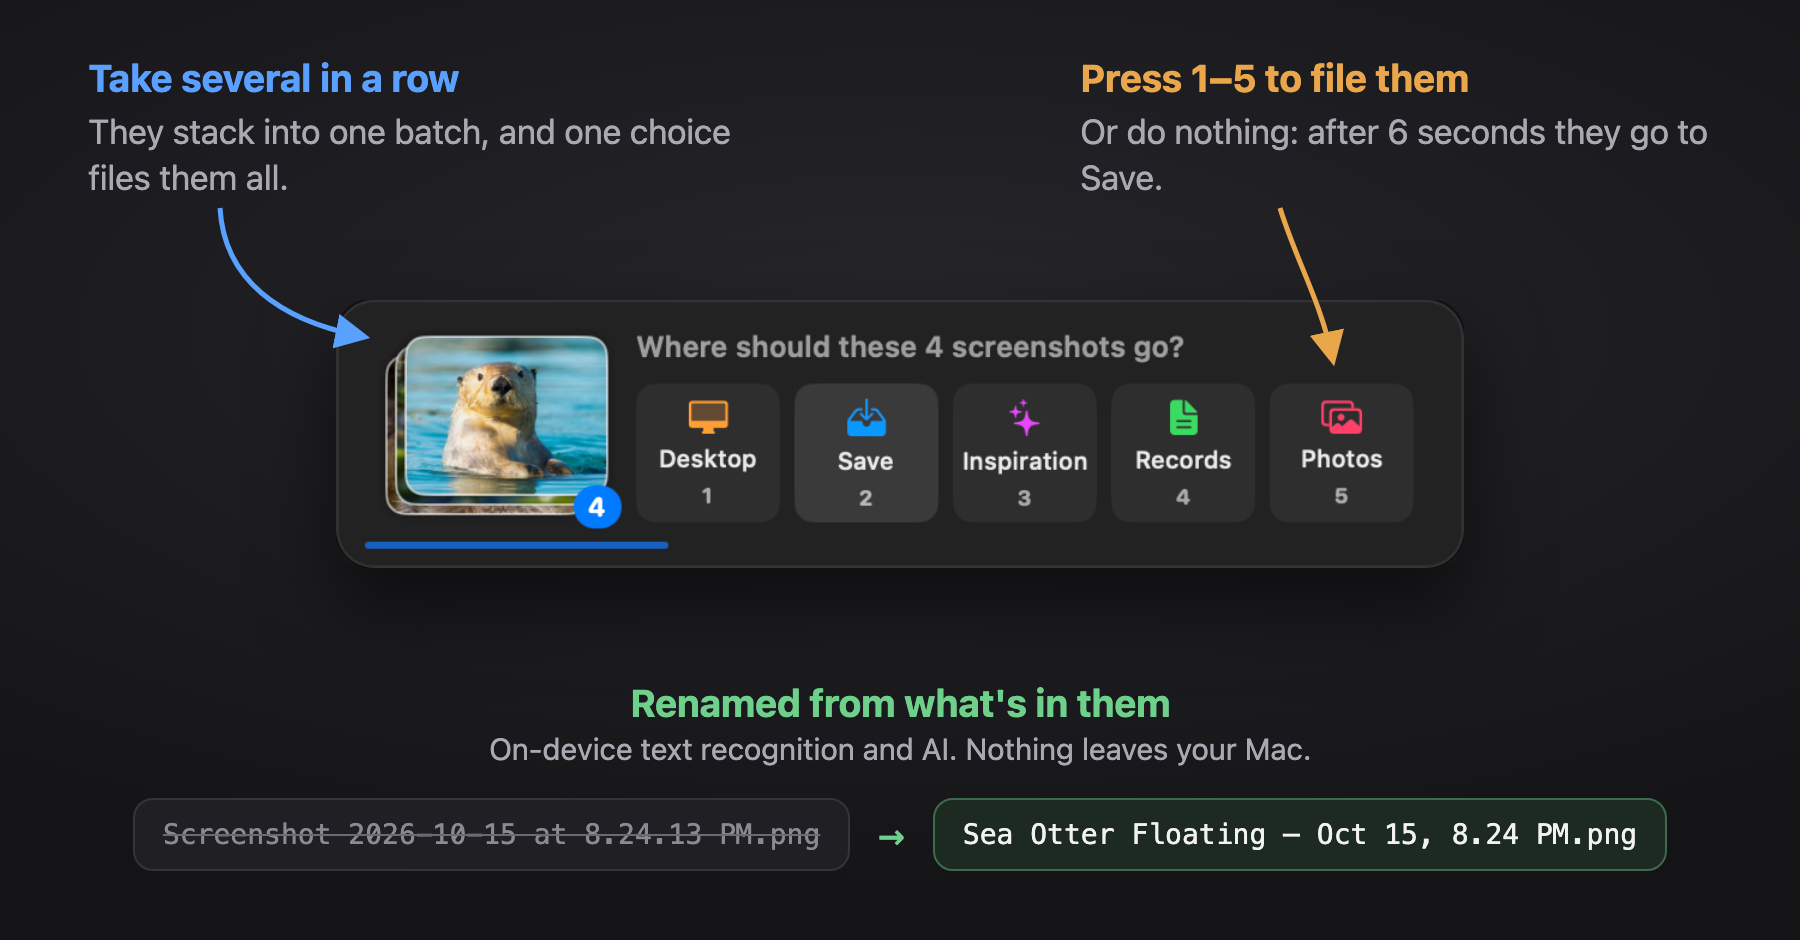
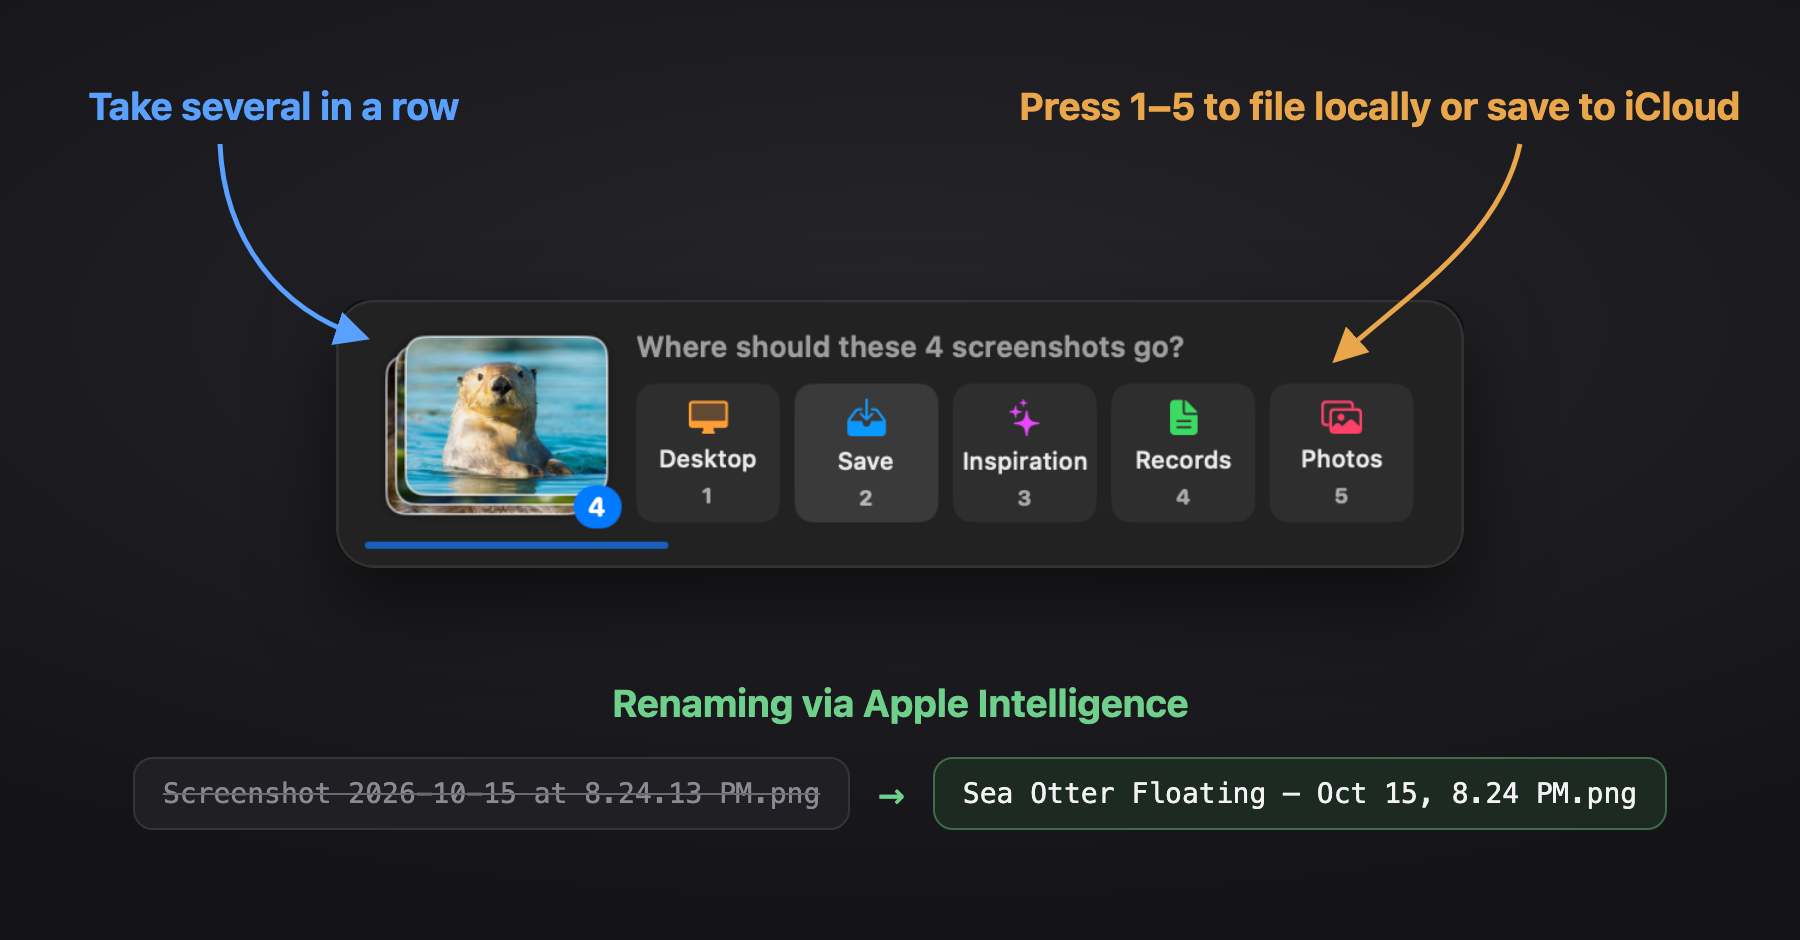
Simplify Screenshot Dock bar labels

diff --git a/README.md b/README.md
@@ -20,7 +20,7 @@
 
 <img src="images/screenshot-dock-demo.gif" alt="Opening the Screenshot Dock shelf from the Dock and dragging screenshots into an app" width="720">
 
-<img src="images/screenshot-dock-bar.png" alt="The quick-choice bar: batch several screenshots, press 1–5 to file them, and each is renamed from its contents" width="720">
+<img src="images/screenshot-dock-bar.png" alt="The quick-choice bar: take several in a row, press 1–5 to file locally or save to iCloud, renamed via Apple Intelligence" width="720">
 
 ## 🌐 Browser
 
